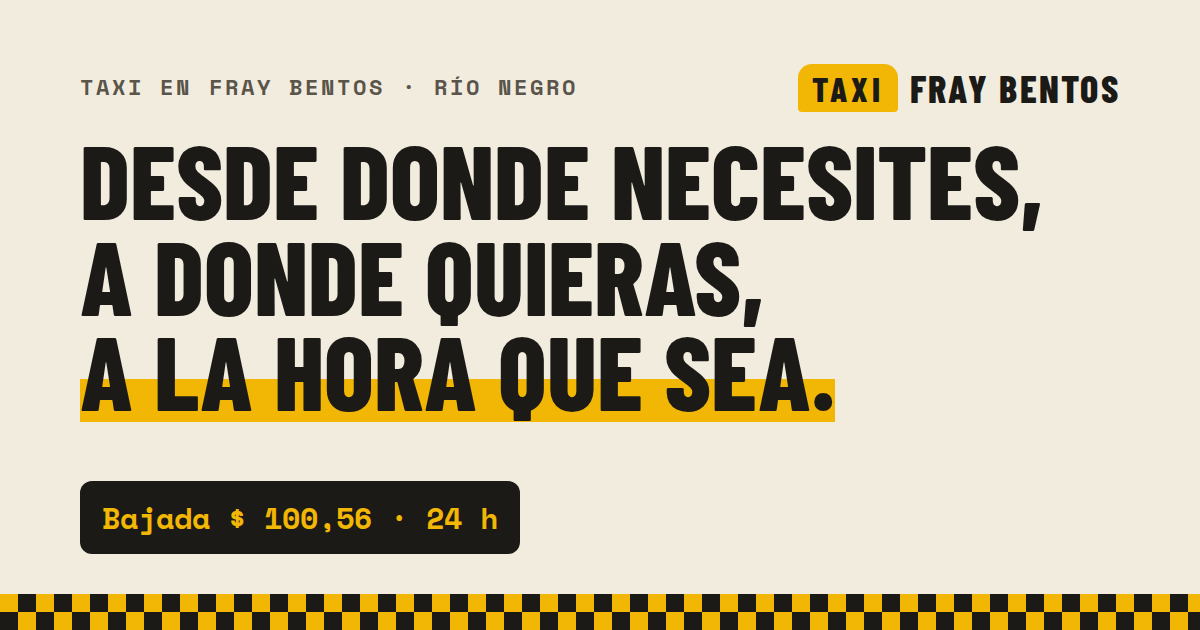
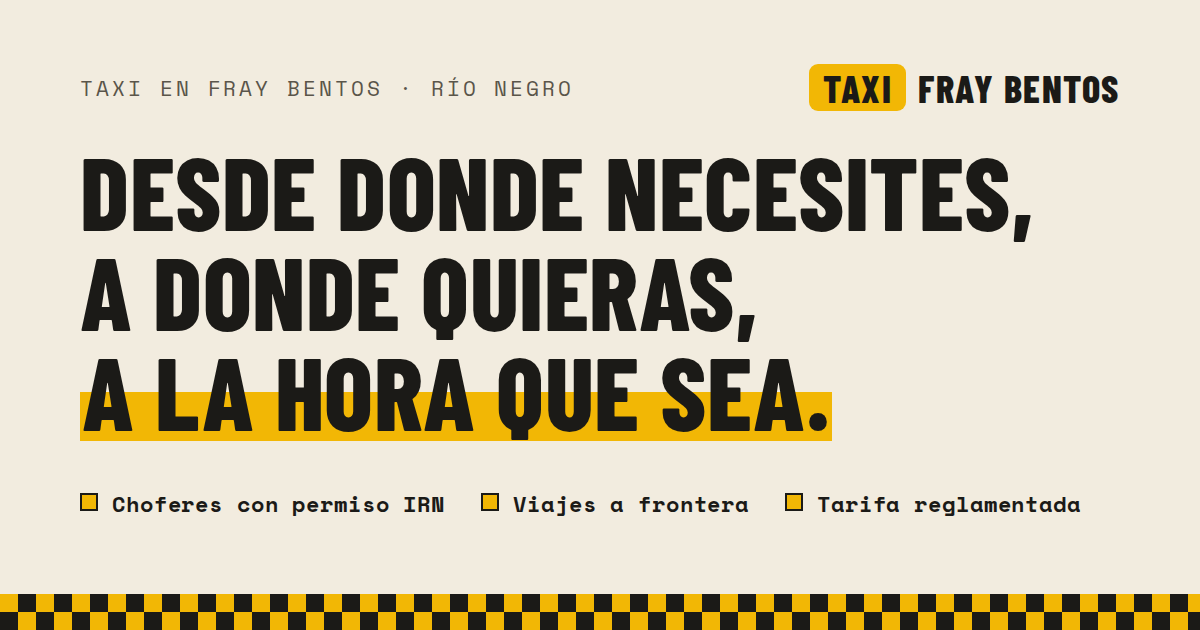
Vista al compartir: imagen sin precios y nueva descripción
Claude-Session: https://claude.ai/code/session_01NwTePN2mUUicXAQS9BidfF

diff --git a/src/config/site.ts b/src/config/site.ts
@@ -13,7 +13,7 @@ export const SITE = {
   lang: 'es-UY',
   title: 'Taxi en Fray Bentos las 24 horas · Tarifas y WhatsApp',
   description:
-    'Pedí un taxi habilitado en Fray Bentos por WhatsApp, las 24 horas. Calculá la tarifa oficial de Río Negro y reservá viajes a Las Cañas, la Terminal y el Puente San Martín.',
+    'Conectá con servicios de taxi habilitados en Fray Bentos. Pedí un taxi cuando lo necesites o reservá tu traslado en la ciudad, Las Cañas, Puente Internacional San Martín y otros destinos.',
   themeColor: '#1B1A17',
 
   /** Teléfono general en formato internacional, sin espacios (ej. "+59899123456"). PENDIENTE. */

diff --git a/README.md b/README.md
@@ -88,7 +88,7 @@ calculadora/                # La calculadora real: src/ (motor, ruta, modalidad,
 - Páginas legales (`src/pages/aviso-legal`, `privacidad`, `cookies`, `condiciones`): revisarlas con quien corresponda y, si el sitio lo
   opera una empresa, sumar su razón social y RUT al aviso legal. Si se agrega analítica o cookies, actualizar privacidad y cookies.
 - Fotos reales de los autos.
-- `public/og.png` tiene el precio de la bajada escrito: regenerarla si cambia la tarifa.
+- `public/og.png` (imagen al compartir el enlace) no lleva precios. Si se cambia, subir el `?v=` en `src/components/seo/Head.astro`.
 - Dar de alta el sitio en Google Search Console y crear/actualizar el **Perfil de Empresa de Google** (pesa mucho en búsquedas locales y en las respuestas de Gemini).
 
 ## Decisiones de rendimiento
